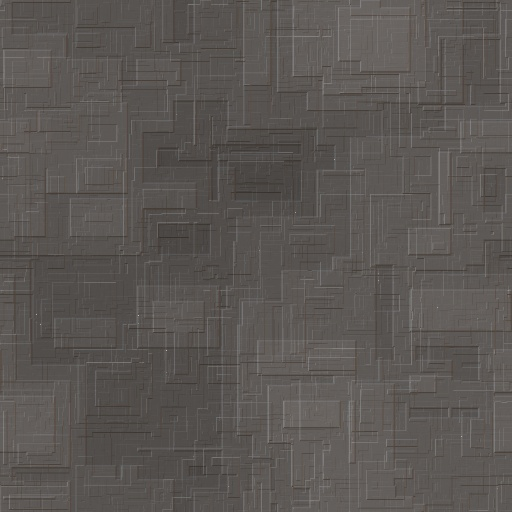
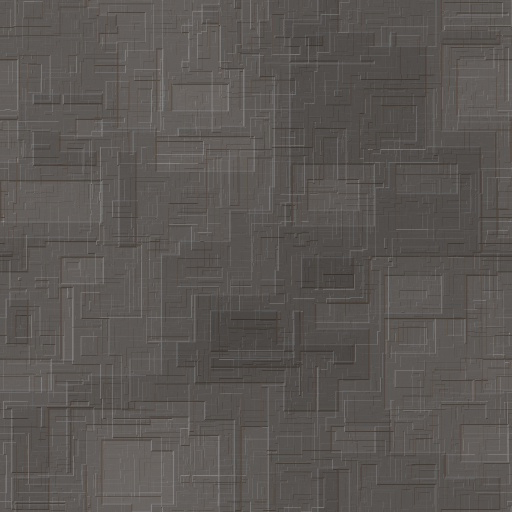
- Moved long name generation code out of for loop for readability - Updated hull textures - Updated word library

diff --git a/index.js b/index.js
@@ -24,30 +24,36 @@ const init = (function() {
         return uniqueNoun;
     }
 
+    // give a 1 in 4 chance of generating a longer name
+    generateLongNameChance = (shipName) => {
+        let randSecondary = Math.floor(Math.random() * 4);
+        if(randSecondary) {
+            // choose to add 'of' in between name
+            if(Math.floor(Math.random() * 2)) {
+                let secondNoun = getUniqueNoun(shipName);
+                shipName = `${shipName} of ${secondNoun}`;
+            }
+            else {
+                // use a noun or adjective
+                let randNoun = Math.floor(Math.random() * 2);
+
+                let word = randNoun
+                    ? getUniqueNoun(shipName)
+                    : getWord('adjectives');
+
+                shipName = `${word} ${shipName}`;
+            }
+        }
+
+        return shipName;
+    }
+
+    // generate a list of 16 ship names
     generateNames = () => {
         let shipNames = [];
         for(let i=0; i<16; i++) {
-            let randSecondary = Math.floor(Math.random() * 2);
             let shipName = getWord('nouns');
-            
-            // generate a longer name (add an adjective or noun)
-            if(randSecondary) {
-                // choose to add 'of' in between name
-                if(Math.floor(Math.random() * 2)) {
-                    let secondNoun = getUniqueNoun(shipName);
-                    shipName = `${shipName} of ${secondNoun}`;
-                }
-                else {
-                    // use a noun or adjective
-                    let randNoun = Math.floor(Math.random() * 2);
-
-                    let word = randNoun
-                        ? getUniqueNoun(shipName)
-                        : getWord('adjectives');
-
-                    shipName = `${word} ${shipName}`;
-                }
-            }
+            shipName = generateLongNameChance(shipName);
             
             // make sure there are no repeats
             const found = shipNames.find(el => el == shipName);

diff --git a/js/library.js b/js/library.js
@@ -1,6 +1,25 @@
+// var adjective = (lead, suffix) => {
+//   if (suffix) {
+//     return { lead, suffix};
+//   }
+//   return { lead, suffix: lead };
+// };
+
+// var adjectiveItem = adjective('Bloody', 'Blood');
+// var adjectiveautumn = adjective('Autumn');
+
+// var lib = {
+//   adjectives: [
+//     adjective('Bloody', 'Blood'),
+//     adjective('Autumn')
+//   ]
+// }
+
+// var nameFwd = `${adjectiveItem.lead} Mary`;
+// var nameOf = `Mary of ${adjectiveItem.suffix}`;
+
 var library = {
   "adjectives": [
-    "Autumn",
     "Bloody",
     "Colored",
     "Coloured",
@@ -17,20 +36,18 @@ var library = {
     "Iron",
     "Lone",
     "Lucid",
+    "Quantum",
     "Raving",
     "Relentless",
     "Sandy",
     "Silent",
     "Silk",
     "Sleeping",
-    "Spring",
     "Steel",
-    "Summer",
     "Thieving",
     "Thundering",
     "Wandering",
     "Weeping",
-    "Winter",
 
     // colours
     "Azure",
@@ -90,6 +107,9 @@ var library = {
   ],
   "nouns": [
     "Ambassador",
+    "Autumn",
+    "Bane",
+    "Balance",
     "Bull",
     "Cartographer",
     "Challenger",
@@ -113,6 +133,7 @@ var library = {
     "Firefly",
     "Fortune",
     "Fog",
+    "Galaxy",
     "Griffin",
     "Hammer",
     "Horror",
@@ -123,6 +144,7 @@ var library = {
     "Insomniac",
     "Javelin",
     "Jenny",
+    "Judgement",
     "Knight",
     "Lancaster",
     "Lance",
@@ -131,6 +153,7 @@ var library = {
     "Magpie",
     "Mary",
     "Mountain",
+    "Nebula",
     "Paladin",
     "Pearl",
     "Pillar",
@@ -149,8 +172,10 @@ var library = {
     "Somnambulist",
     "Sovereign",
     "Spider",
+    "Spring",
     "Son",
     "Spartan",
+    "Summer",
     "Sun",
     "Sunrise",
     "Surprise",
@@ -160,12 +185,15 @@ var library = {
     "Tornado",
     "Tsunami",
     "Tundra",
+    "Universe",
     "Vengeance",
     "Wanderer",
     "War",
     "Warbird",
     "Weasel",
     "Widow",
+    "Winter",
+    "Wrath",
     "Yorktown",
 
     // Months

diff --git a/index.html b/index.html
@@ -49,7 +49,7 @@
     
     <main>
       <section class="py-1 text-center container">
-        <div class="row py-lg-5">
+        <div class="row pt-4">
           <div class="col-lg-6 col-md-8 mx-auto">
             <button class="btn btn-primary" id="generateBtn">Generate Ship Names</button>
           </div>
@@ -107,4 +107,4 @@
     </script>
 </body>
 
-</html> 
+</html>
